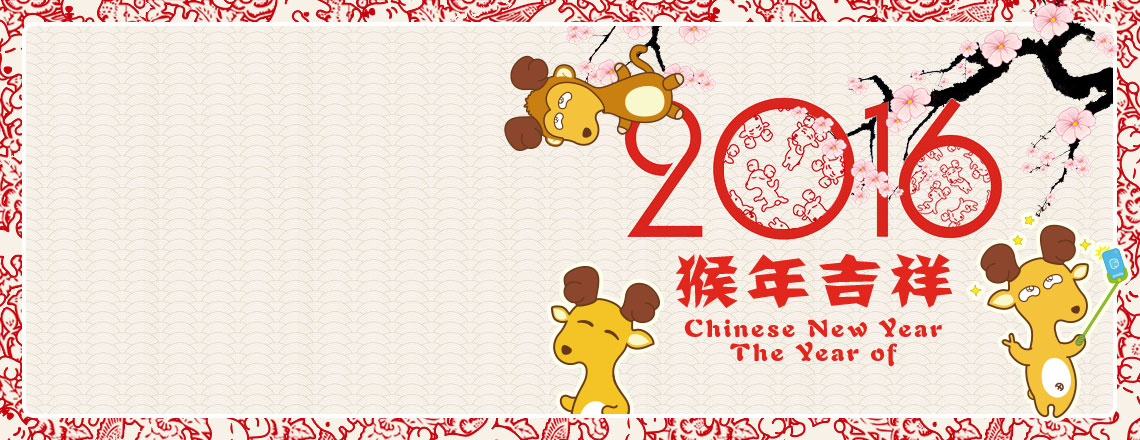
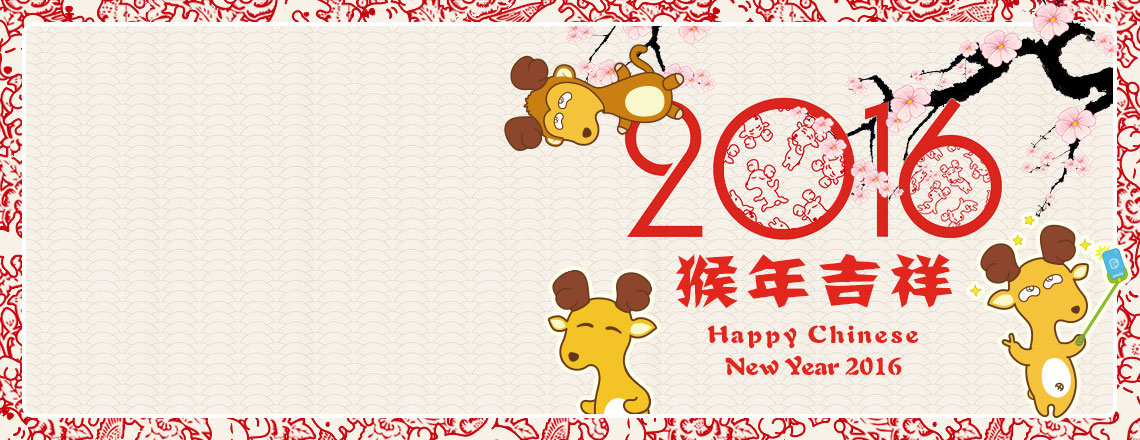
改動新年banner+web標題

Changed region(s): [[0.4605, 0.5909, 0.8289, 0.9455]]

diff --git a/activity/ny-2016.html b/activity/ny-2016.html
@@ -6,7 +6,7 @@
 <meta name="viewport" content="width=device-width, initial-scale=1">
 <meta name="description" content="">
 <meta name="author" content="">
-<title>Heroic Features - Start Bootstrap Template</title>
+<title>Happy Chinese New Year 2016</title>
 
 <!-- Bootstrap Core CSS -->
 <link rel="stylesheet" type="text/css" href="../css/bootstrap.min.css">
